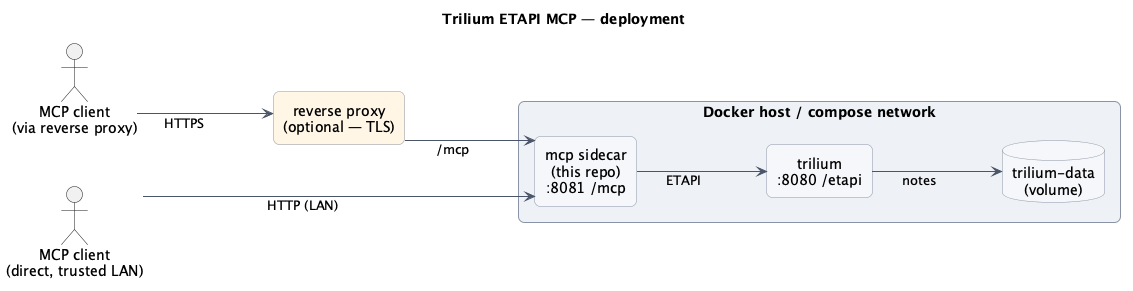
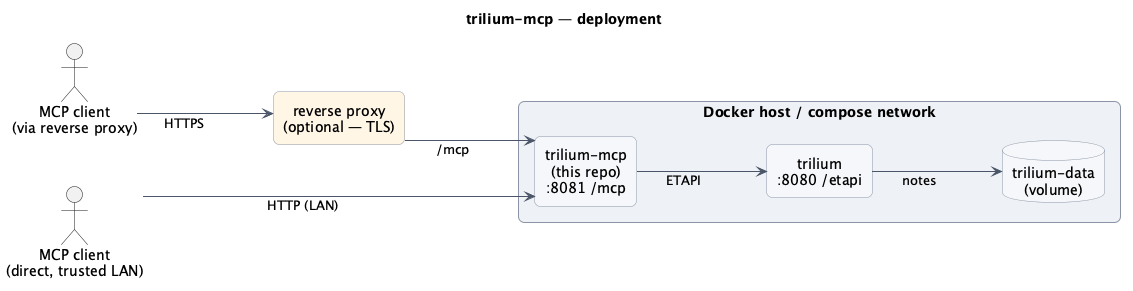
docs: name the component trilium-mcp in diagram and README text
Reflect the renamed sidecar (trilium-mcp) from the architecture diagram in
the surrounding description text and image alt text.

diff --git a/README.md b/README.md
@@ -11,20 +11,20 @@ client connects to it by URL.
 ## Architecture
 
 <p align="center">
-  <img src="docs/architecture.png" alt="Deployment: MCP clients → mcp sidecar → Trilium, on the Docker network" width="520">
+  <img src="docs/architecture.png" alt="Deployment: MCP clients → trilium-mcp → Trilium, on the Docker network" width="520">
 </p>
 
-The sidecar talks to Trilium over the internal Docker network, so Trilium's ETAPI is
-never exposed publicly on its own. Clients reach the sidecar either through a TLS-terminating
-reverse proxy or directly over a trusted LAN — in both cases the ETAPI token they present is
-the only credential.
+**trilium-mcp** (this repo) runs as a container sidecar and talks to Trilium over the internal
+Docker network, so Trilium's ETAPI is never exposed publicly on its own. Clients reach trilium-mcp
+either through a TLS-terminating reverse proxy or directly over a trusted LAN — in both cases the
+ETAPI token they present is the only credential.
 
 ## How a request flows
 
-At a glance, the sidecar forwards the client's ETAPI token straight through to Trilium:
+At a glance, trilium-mcp forwards the client's ETAPI token straight through to Trilium:
 
 <p align="center">
-  <img src="docs/sequence-overview.png" alt="Client sends a tool call with an ETAPI token; the sidecar forwards it to Trilium and returns the result" width="560">
+  <img src="docs/sequence-overview.png" alt="Client sends a tool call with an ETAPI token; trilium-mcp forwards it to Trilium and returns the result" width="560">
 </p>
 
 In more detail — startup builds the tools from the OpenAPI spec, the middleware rejects any